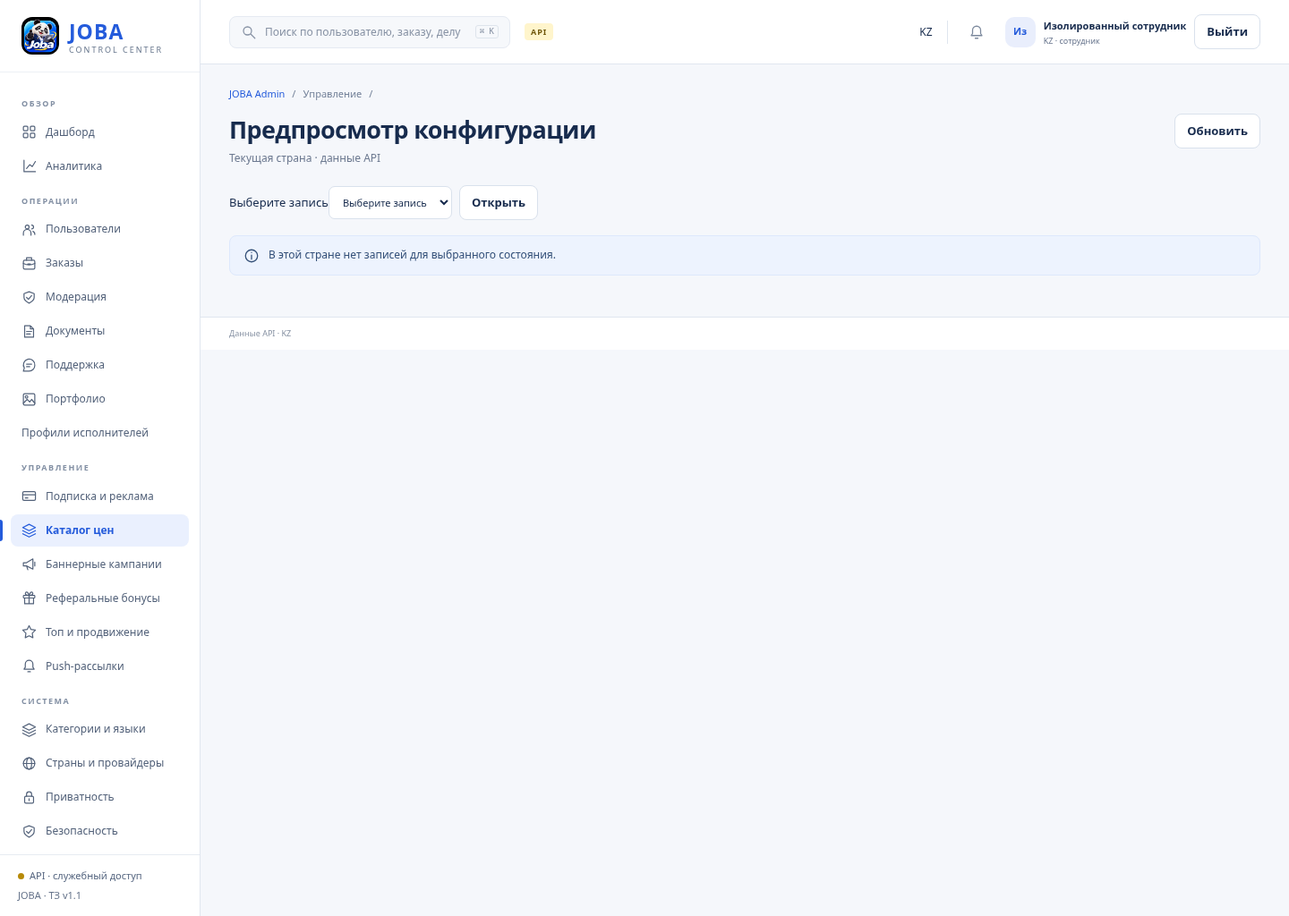
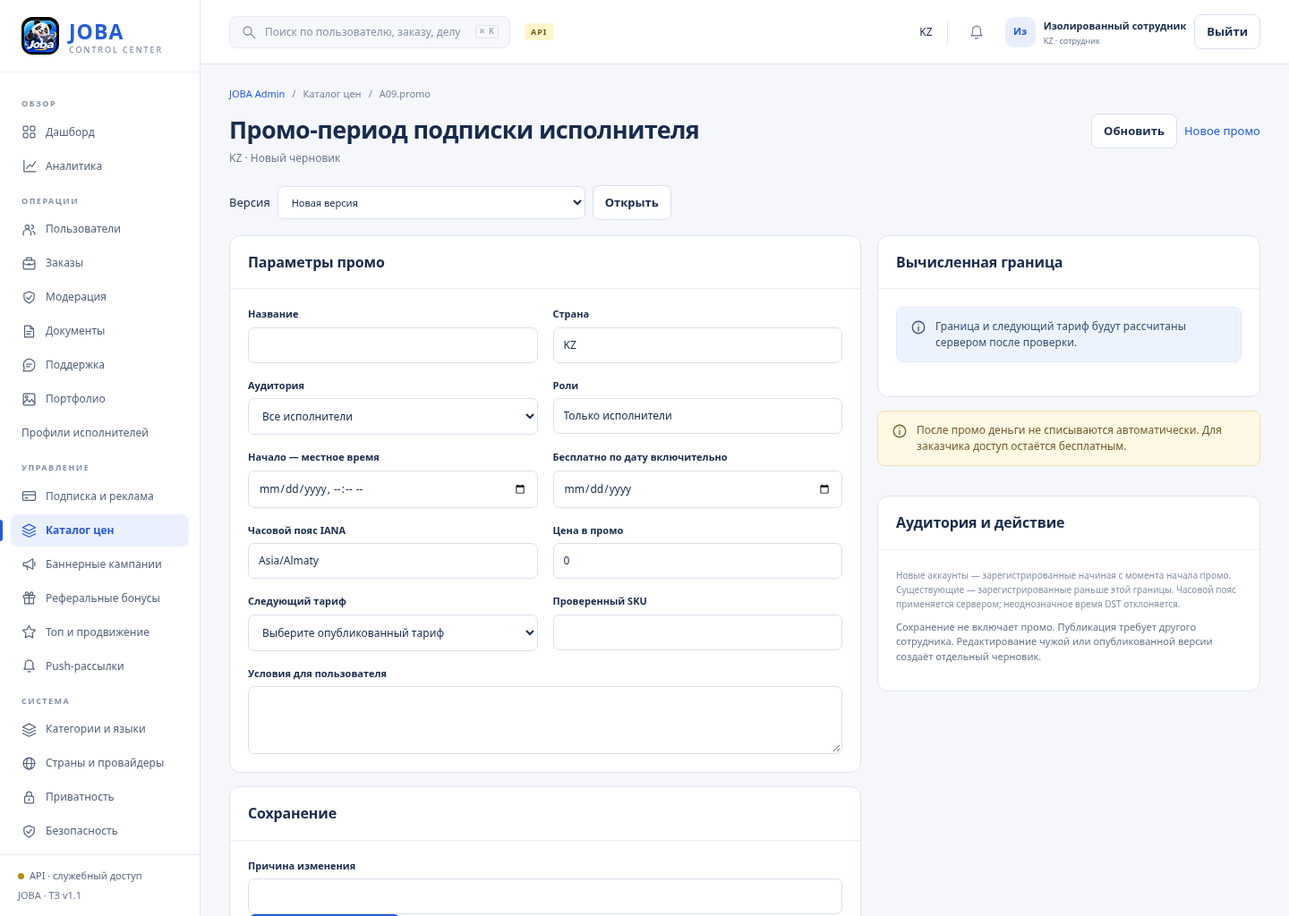
Implement structured executor promotion editor and correct admin subscription scope

diff --git a/apps/admin/monetization-workspace.js b/apps/admin/monetization-workspace.js
@@ -2,18 +2,19 @@ export async function monetizationWorkspace({key,api,esc,card,note,metric,badge,
  const [versions,summary]=await Promise.all([api('/admin/monetization-configs'),api('/admin/monetization-summary')]);
  const current=summary.current;
  const selected=current?.payload||{subscription_enabled:true,banner_ads_enabled:false,rewarded_access_enabled:false};
- const price=summary.prices.find(p=>p.payload.period==='month')||summary.prices[0];
+ const subscriptions=summary.prices.filter(p=>p.payload.product_type==='subscription');
+ const price=subscriptions.find(p=>p.payload.period==='month')||subscriptions[0];
  const switchControl=(name,label,value)=>`<button type="button" class="switch ${value?'on':''}" role="switch" aria-label="${label}" aria-checked="${Boolean(value)}" data-flag="${name}"></button><input type="hidden" name="${name}" value="${Boolean(value)}">`;
  const providerSelect=(name,label,options)=>`<label for="${name}">${label}</label><select id="${name}" name="${name}"><option value="">Не подключён</option>${options.map(provider=>`<option value="${esc(provider)}">${esc(provider)}</option>`).join('')}</select>`;
- const body=()=>`${note('<b>Подписка сохраняется как базовый способ доступа.</b> Баннеры и рекламные награды управляются независимо. Изменения не удаляют уже выданные права.')}<form id="monetization-draft" class="grid split"><div class="stack">${card('Базовая подписка',`<div class="row"><div><h3>JOBA Доступ</h3><p class="tiny muted">Один доступ для обеих ролей</p></div>${badge('Постоянная опция','blue')}</div><div class="grid cols2 mt"><div class="notice-slim">Действующая цена<br><b>${price?esc(new Intl.NumberFormat('ru',{style:'currency',currency:price.payload.currency}).format(price.payload.amount_minor/100)):'Цена ещё не опубликована'}</b></div><div class="notice-slim">Продукт провайдера<br><b>${esc(price?.payload.product_id||'Не подключён')}</b></div></div><a href="#pricing" class="tiny">Каталог цен →</a>`)}${card('Баннерная реклама',`<div class="row"><div><h3>Показывать inline-баннеры</h3><p class="tiny muted">Баннер не даёт право доступа</p></div>${switchControl('banner_ads_enabled','Показывать inline-баннеры',selected.banner_ads_enabled)}</div><div class="stack mt">${providerSelect('banner_provider','Баннерная сеть',summary.providers.banner)}${namedField('Размещения через запятую','banner_placements')}<div class="notice-slim">Чаты, документы, поддержка и оформление оплаты исключены.</div></div>`)}${card('Rewarded-доступ',`<div class="row"><div><h3>Разрешить новые рекламные сессии</h3><p class="tiny muted">Отдельная настройка временного доступа</p></div>${switchControl('rewarded_access_enabled','Разрешить новые рекламные сессии',selected.rewarded_access_enabled)}</div><div class="stack mt">${providerSelect('provider','Сеть рекламных наград',summary.providers.rewarded)}${namedField('Подтверждение политики сети','policy_evidence')}<label for="reward-kind">Тип награды</label><select id="reward-kind" name="reward_kind"><option value="duration">Временный доступ</option><option value="action_credits">Кредиты действий</option></select>${namedField('Срок награды или кредитов в минутах','duration_minutes','number')}${namedField('Количество кредитов','credits','number')}<label for="reward-capability">Действие</label><select id="reward-capability" name="capability"><option value="search_full">Полный поиск</option><option value="publish_order">Публикация заказа</option><option value="send_offer">Отправка отклика</option><option value="select_offer">Выбор исполнителя</option></select>${note('Включение требует подключённой сети и подтверждённой политики. До проверки публикация закрыта.','warn')}</div>`)}</div><div class="stack">${card('Область действия',`<p>Страна: <b>${esc(summary.country)}</b></p><p>Обе пользовательские роли</p><p>Активная версия: <b>${current?'v'+current.version:'Нет опубликованной версии'}</b></p><p>Кэш конфигурации: ${summary.config_ttl_seconds} секунд</p>`)}${card('Влияние изменения',`<div class="grid cols2">${metric('Активных аккаунтов',summary.users,'','В текущей стране')}${metric('Оплаченных прав',summary.subscription_grants,'','Сохраняются')}${metric('Ожидающих наград',summary.pending_rewards,'','По исходному snapshot')}</div>`)}${card('Новый черновик',`<div class="stack">${namedField('Название','title')}${namedField('Причина','reason')}<button type="submit" class="primary">Сохранить черновик</button><div id="monetization-error" role="alert"></div></div>`)}${card('Версии',versions.items.length?versions.items.map(v=>`<div class="event"><b>${esc(v.title)} · v${v.version}</b><p>${esc(v.status)}</p><button type="button" data-version="${v.id}">Открыть</button></div>`).join(''):note('Версий ещё нет.'))}</div></form>`;
+ const body=()=>`${note('<b>Подписка доступна только исполнителям. Заказчики пользуются сервисом бесплатно.</b> Баннеры и рекламные награды управляются независимо. Изменения не удаляют уже выданные права.')}<form id="monetization-draft" class="grid split"><div class="stack">${card('Базовая подписка',`<div class="row"><div><h3>JOBA Доступ</h3><p class="tiny muted">Доступ для исполнителя</p></div>${badge('Постоянная опция','blue')}</div><div class="grid cols2 mt"><div class="notice-slim">Действующая цена<br><b>${price?esc(new Intl.NumberFormat('ru',{style:'currency',currency:price.payload.currency}).format(price.payload.amount_minor/100)):'Цена ещё не опубликована'}</b></div><div class="notice-slim">Продукт провайдера<br><b>${esc(price?.payload.product_id||'Не подключён')}</b></div></div><a href="#pricing" class="tiny">Каталог цен →</a>`)}${card('Баннерная реклама',`<div class="row"><div><h3>Показывать inline-баннеры</h3><p class="tiny muted">Баннер не даёт право доступа</p></div>${switchControl('banner_ads_enabled','Показывать inline-баннеры',selected.banner_ads_enabled)}</div><div class="stack mt">${providerSelect('banner_provider','Баннерная сеть',summary.providers.banner)}${namedField('Размещения через запятую','banner_placements')}<div class="notice-slim">Чаты, документы, поддержка и оформление оплаты исключены.</div></div>`)}${card('Rewarded-доступ',`<div class="row"><div><h3>Разрешить новые рекламные сессии</h3><p class="tiny muted">Отдельная настройка временного доступа</p></div>${switchControl('rewarded_access_enabled','Разрешить новые рекламные сессии',selected.rewarded_access_enabled)}</div><div class="stack mt">${providerSelect('provider','Сеть рекламных наград',summary.providers.rewarded)}${namedField('Подтверждение политики сети','policy_evidence')}<label for="reward-kind">Тип награды</label><select id="reward-kind" name="reward_kind"><option value="duration">Временный доступ</option><option value="action_credits">Кредиты действий</option></select>${namedField('Срок награды или кредитов в минутах','duration_minutes','number')}${namedField('Количество кредитов','credits','number')}<label for="reward-capability">Действие</label><select id="reward-capability" name="capabilities" multiple size="3" required><option value="search_full">Полный поиск</option><option value="send_offer">Отправка отклика</option><option value="publish_profile">Публикация услуг</option></select>${note('Включение требует подключённой сети и подтверждённой политики. До проверки публикация закрыта.','warn')}</div>`)}</div><div class="stack">${card('Область действия',`<p>Страна: <b>${esc(summary.country)}</b></p><p>Подписка и награды доступа — для исполнителей. Баннерные размещения управляются отдельно.</p><p>Активная версия: <b>${current?'v'+current.version:'Нет опубликованной версии'}</b></p><p>Кэш конфигурации: ${summary.config_ttl_seconds} секунд</p>`)}${card('Влияние изменения',`<div class="grid cols2">${metric('Активных аккаунтов',summary.users,'','В текущей стране')}${metric('Оплаченных прав',summary.subscription_grants,'','Сохраняются')}${metric('Ожидающих наград',summary.pending_rewards,'','По исходному snapshot')}</div>`)}${card('Новый черновик',`<div class="stack">${namedField('Название','title')}${namedField('Причина','reason')}<button type="submit" class="primary">Сохранить черновик</button><div id="monetization-error" role="alert"></div></div>`)}${card('Версии',versions.items.length?versions.items.map(v=>`<div class="event"><b>${esc(v.title)} · v${v.version}</b><p>${esc(v.status)}</p><button type="button" data-version="${v.id}">Открыть</button></div>`).join(''):note('Версий ещё нет.'))}</div></form>`;
  return {key,id:'A16',title:'Подписка и реклама',subtitle:'Конфигурация текущей страны',section:'Управление',actions:'<button id="refresh-data">Обновить</button>',body,bind(){
   const form=document.getElementById('monetization-draft');
   form.querySelectorAll('[data-flag]').forEach(button=>button.onclick=()=>{const enabled=button.getAttribute('aria-checked')!=='true';button.setAttribute('aria-checked',String(enabled));button.classList.toggle('on',enabled);form.elements.namedItem(button.dataset.flag).value=String(enabled);});
-  form.elements.namedItem('banner_provider').value=selected.banner_provider||'';form.elements.namedItem('provider').value=selected.provider||'';form.elements.namedItem('banner_placements').value=(selected.banner_placements||[]).join(', ');form.elements.namedItem('policy_evidence').value=selected.policy_evidence||'';form.elements.namedItem('reward_kind').value=selected.reward_policy?.kind||'duration';form.elements.namedItem('capability').value=selected.reward_policy?.capabilities?.[0]||'search_full';
-  const rewardKind=form.elements.namedItem('reward_kind'),capability=form.elements.namedItem('capability');const constrainCredits=()=>{const search=capability.querySelector('[value="search_full"]');search.disabled=rewardKind.value==='action_credits';if(search.disabled&&capability.value==='search_full')capability.value='publish_order';};rewardKind.onchange=constrainCredits;constrainCredits();
+  form.elements.namedItem('banner_provider').value=selected.banner_provider||'';form.elements.namedItem('provider').value=selected.provider||'';form.elements.namedItem('banner_placements').value=(selected.banner_placements||[]).join(', ');form.elements.namedItem('policy_evidence').value=selected.policy_evidence||'';form.elements.namedItem('reward_kind').value=selected.reward_policy?.kind||'duration';for(const option of form.elements.namedItem('capabilities').options)option.selected=(selected.reward_policy?.capabilities||['search_full']).includes(option.value);
+  const rewardKind=form.elements.namedItem('reward_kind'),capability=form.elements.namedItem('capabilities');const constrainCredits=()=>{const search=capability.querySelector('[value="search_full"]');search.disabled=rewardKind.value==='action_credits';if(search.disabled)search.selected=false;if(![...capability.selectedOptions].length)capability.value=rewardKind.value==='action_credits'?'send_offer':'search_full';form.elements.namedItem('credits').disabled=rewardKind.value!=='action_credits';};rewardKind.onchange=constrainCredits;constrainCredits();
   form.elements.namedItem('duration_minutes').value=String((selected.reward_policy?.duration_seconds||3600)/60);form.elements.namedItem('credits').value=String(selected.reward_policy?.credits||1);
   form.onsubmit=async event=>{event.preventDefault();const values=Object.fromEntries(new FormData(form));form.querySelectorAll('button').forEach(b=>b.disabled=true);try{
-    const payload={subscription_enabled:true,banner_ads_enabled:values.banner_ads_enabled==='true',rewarded_access_enabled:values.rewarded_access_enabled==='true',banner_provider:values.banner_provider,banner_placements:values.banner_placements.split(',').map(x=>x.trim()).filter(Boolean),provider:values.provider,policy_evidence:values.policy_evidence,reward_policy:{kind:values.reward_kind,capabilities:[values.capability],...(values.reward_kind==='duration'?{duration_seconds:Number(values.duration_minutes)*60}:{credits:Number(values.credits),duration_seconds:Number(values.duration_minutes)*60})}};
+    const payload={subscription_enabled:true,banner_ads_enabled:values.banner_ads_enabled==='true',rewarded_access_enabled:values.rewarded_access_enabled==='true',banner_provider:values.banner_provider,banner_placements:values.banner_placements.split(',').map(x=>x.trim()).filter(Boolean),provider:values.provider,policy_evidence:values.policy_evidence,reward_policy:{kind:values.reward_kind,capabilities:new FormData(form).getAll('capabilities'),...(values.reward_kind==='duration'?{duration_seconds:Number(values.duration_minutes)*60}:{credits:Number(values.credits),duration_seconds:Number(values.duration_minutes)*60})}};
     await api('/admin/monetization-configs','POST',{title:values.title,reason:values.reason,payload});await onRefresh();
   }catch(error){document.getElementById('monetization-error').textContent=error.message;}finally{form.querySelectorAll('button').forEach(b=>b.disabled=false);}};
   form.querySelectorAll('[data-version]').forEach(button=>button.onclick=()=>{

diff --git a/apps/admin/promotion-workspace.js b/apps/admin/promotion-workspace.js
@@ -1,0 +1,42 @@
+const zones={KZ:'Asia/Almaty',RS:'Europe/Belgrade',RU:'Europe/Moscow',BY:'Europe/Minsk'};
+const audiences={all:'Все исполнители',new:'Новые аккаунты исполнителей',existing:'Существующие аккаунты исполнителей'};
+function localInput(value,zone){if(!value)return '';try{return new Intl.DateTimeFormat('sv-SE',{timeZone:zone,year:'numeric',month:'2-digit',day:'2-digit',hour:'2-digit',minute:'2-digit',hourCycle:'h23'}).format(new Date(value)).replace(' ','T');}catch{return '';}}
+export async function promotionWorkspace({key,api,esc,card,note,tablecard,country,actorId,onRefresh}){
+ const params=new URLSearchParams(location.hash.split('?')[1]||'');
+ const [data,prices]=await Promise.all([api('/admin/promotions?'+new URLSearchParams({limit:'20',...(params.get('cursor')?{cursor:params.get('cursor')}:{})})),api('/admin/price-versions?status=effective&limit=100')]);
+ const record=params.get('id')?(data.items.find(r=>r.id===params.get('id'))||await api('/admin/promotions/'+encodeURIComponent(params.get('id')))):undefined,p=record?.payload||{};
+ const zone=p.time_zone||zones[country]||'UTC';
+ const available=prices.items.filter(r=>r.status==='effective'&&r.payload.product_type==='subscription');
+ const money=r=>new Intl.NumberFormat('ru',{style:'currency',currency:r.payload.currency}).format(r.payload.amount_minor/100);
+ const input=(label,name,type,value,attrs='')=>`<div class="formfield"><label for="promo-${name}">${label}</label><input id="promo-${name}" name="${name}" type="${type}" value="${esc(value)}" ${attrs}></div>`;
+ const state=record?`Версия ${record.version} · ${esc(record.status)}`:'Новый черновик';
+ const selection=`<form id="promo-select" class="filters"><label for="promo-version">Версия</label><select id="promo-version" name="id"><option value="">Новая версия</option>${data.items.map(r=>`<option value="${esc(r.id)}" ${r.id===record?.id?'selected':''}>${esc(r.title)} · ${esc(r.status)} · v${r.version}</option>`).join('')}</select><button>Открыть</button></form>`;
+ const preview=record?.preview;
+ const boundaryMarkup=preview=>preview?`<div class="info-row"><span>Окончание, UTC</span><b>${esc(preview.promo_end_exclusive)}</b></div><div class="info-row"><span>Следующая цена</span><b>${preview.next_price?esc(new Intl.NumberFormat('ru',{style:'currency',currency:preview.next_price.currency}).format(preview.next_price.amount_minor/100)):'—'}</b></div>`:note('Граница и следующий тариф будут рассчитаны сервером после проверки.');
+ const command=record?`<form id="promo-command" class="stack"><label for="promo-command-reason">Основание действия</label><textarea id="promo-command-reason" name="reason" minlength="5" maxlength="1000" required></textarea><div class="actions"><button value="validate">Проверить</button><button value="preview">Предпросмотр промо</button>${record.status==='draft'?'<button class="primary" value="publish">Опубликовать другим сотрудником</button>':record.status==='effective'?'<button value="stop">Остановить промо</button><button value="rollback">Черновик отката</button>':'<button value="rollback">Черновик отката</button>'}</div><div role="alert"></div><div role="status"></div></form>`:'';
+ return {key,id:key==='promo'?'A09.promo':'A09.preview',title:key==='promo'?'Промо-период подписки исполнителя':'Предпросмотр промо',subtitle:`${country} · ${state}`,section:'Каталог цен',actions:'<button id="refresh-data">Обновить</button><a class="btn" href="#promo">Новое промо</a>',
+  body:()=>selection+(params.has('id')&&!record?note('Версия не найдена в текущей стране.','warn'):'')+`<div class="grid split"><form id="promo-editor" class="stack">${card('Параметры промо',`<div class="formgrid">${input('Название','title','text',record?.title||'','required minlength="3" maxlength="120"')}${input('Страна','country','text',country,'readonly')}
+   <div class="formfield"><label for="promo-audience">Аудитория</label><select id="promo-audience" name="audience">${Object.entries(audiences).map(([id,label])=>`<option value="${id}" ${id===(p.audience||'all')?'selected':''}>${label}</option>`).join('')}</select></div>
+   ${input('Роли','role','text','Только исполнители','readonly')}${input('Начало — местное время','start_local','datetime-local',localInput(p.valid_from,zone),'required')}${input('Бесплатно по дату включительно','end_date','date',p.end_date||'','required')}${input('Часовой пояс IANA','time_zone','text',zone,'required')}${input('Цена в промо','zero','text','0','readonly')}
+   <div class="formfield"><label for="promo-next-price">Следующий тариф</label><select id="promo-next-price" name="next_price_id" required><option value="">Выберите опубликованный тариф</option>${available.map(r=>`<option value="${esc(r.id)}" ${r.id===p.next_price_id?'selected':''}>${esc(r.title)} · ${esc(money(r))} · ${esc(r.payload.period||'')}</option>`).join('')}</select></div>
+   ${input('Проверенный SKU','sku','text','','readonly')}
+   <div class="formfield wide"><label for="promo-user-terms">Условия для пользователя</label><textarea id="promo-user-terms" name="user_terms" required minlength="10" maxlength="4000" rows="3">${esc(p.user_terms||'')}</textarea></div></div>`)}
+   ${card('Сохранение',`${input('Причина изменения','reason','text','','required minlength="5" maxlength="1000"')}<button class="primary">Сохранить черновик</button><div role="alert"></div>`)}
+  </form><div class="stack">${card('Вычисленная граница','<div id="promo-boundary">'+boundaryMarkup(preview)+'</div>')}${note('После промо деньги не списываются автоматически. Для заказчика доступ остаётся бесплатным.','warn')}${card('Аудитория и действие',`<p class="helptext">Новые аккаунты — зарегистрированные начиная с момента начала промо. Существующие — зарегистрированные раньше этой границы. Часовой пояс применяется сервером; неоднозначное время DST отклоняется.</p><p class="tiny muted">Сохранение не включает промо. Публикация требует другого сотрудника. Редактирование чужой или опубликованной версии создаёт отдельный черновик.</p>`)}${record?card('Проверка влияния',command):''}</div></div>`+tablecard('Версии промо',['Название','Состояние','Версия',''],data.items.map(r=>[esc(r.title),esc(r.status),r.version,`<a href="#promo?id=${esc(r.id)}">Открыть →</a>`]))+(data.meta?.next_cursor?`<a class="btn" href="#promo?cursor=${encodeURIComponent(data.meta.next_cursor)}">Следующие версии</a>`:''),
+  bind(){
+   document.getElementById('promo-select').onsubmit=e=>{e.preventDefault();const id=new FormData(e.currentTarget).get('id');location.hash=key+(id?'?id='+encodeURIComponent(id):'');};
+   const form=document.getElementById('promo-editor'),price=form.elements.next_price_id;
+   const showSku=()=>{const r=available.find(r=>r.id===price.value);form.elements.sku.value=r?.payload.product_id||'';};price.onchange=showSku;showSku();
+   form.onsubmit=async e=>{e.preventDefault();const values=Object.fromEntries(new FormData(form)),editable=record?.status==='draft'&&record.owner===actorId;const payload={audience:values.audience,role:'executor',start_local:values.start_local,end_date:values.end_date,time_zone:values.time_zone,next_price_id:values.next_price_id,user_terms:values.user_terms};
+    const controls=[...form.querySelectorAll('button,input,textarea,select')];controls.forEach(x=>x.disabled=true);form.querySelector('[role=alert]').textContent='';
+    try{const saved=await api('/admin/promotions'+(editable?'/'+record.id:''),editable?'PATCH':'POST',{title:values.title,reason:values.reason,payload,...(editable?{expected_version:record.version}:{})});if(params.get('id')===saved.id)await onRefresh();else location.hash='promo?id='+encodeURIComponent(saved.id);}
+    catch(error){form.querySelector('[role=alert]').textContent=error.message;controls.forEach(x=>x.disabled=false);}
+   };
+   const commands=document.getElementById('promo-command');form.oninput=event=>{if(commands&&event.target.name!=='reason'){commands.querySelectorAll('button').forEach(x=>x.disabled=true);commands.querySelector('[role=status]').textContent='Сохраните изменения перед проверкой и публикацией.';}};if(commands)commands.onsubmit=async e=>{e.preventDefault();const action=e.submitter.value,reason=new FormData(commands).get('reason');commands.querySelectorAll('button').forEach(x=>x.disabled=true);commands.querySelector('[role=alert]').textContent='';
+    try{const result=await api('/admin/promotions/'+record.id+'/'+action,'POST',{expected_version:record.version,reason});if(['validate','preview'].includes(action)){commands.querySelector('[role=status]').textContent='Проверка сохранённой версии завершена.';document.getElementById('promo-boundary').innerHTML=boundaryMarkup(result);}else if(action==='rollback')location.hash='promo?id='+encodeURIComponent(result.id);else await onRefresh();}
+    catch(error){commands.querySelector('[role=alert]').textContent=error.message;}
+    finally{commands.querySelectorAll('button').forEach(x=>x.disabled=false);}
+   };
+  }
+ };
+}

diff --git a/services/api/src/marketplace.ts b/services/api/src/marketplace.ts
@@ -26,7 +26,7 @@ import { PopplerPdfSanitizer } from './pdf-sanitizer';
 import { PrivateFiles, ClamAvScanner } from './private-files';
 import sharp from 'sharp';
 import { Moderation, validateRules, TEXT_SURFACES, matchesRule } from './moderation';
-import { Configuration } from './configuration';
+import { Configuration,normalizePromotionPayload } from './configuration';
 import { Growth } from './growth';
 import { Branding } from './branding';
 import { DEFAULT_SETTINGS,validateSettings,readSettings } from './settings';
@@ -357,7 +357,7 @@ export class Marketplace {
       const cooldownUntil=last?new Date(last+(config?.payload.cooldown_seconds??300)*1000).toISOString():null;
       return {banner_ads_enabled:false,rewarded_access_enabled:false,...config?.payload,reward_provider_ready:this.providers.rewards.has(config?.payload.provider),reward_usage:{used_today:usedToday,daily_cap:dailyCap,remaining_today:Math.max(0,dailyCap-usedToday),cooldown_until:cooldownUntil},version:config?.version??1,effective_at:config?.published_at??null,expires_at:new Date(Date.now()+settings.config_ttl_seconds*1000).toISOString(),server_time:new Date().toISOString(),checkout_enabled:false,subscription_enabled:a.user.active_role==='executor'&&config?.payload.subscription_enabled!==false,subscription_scope:'executor',country_gate:'unverified',offers:a.user.active_role==='executor'&&config?.payload.subscription_enabled!==false?(await this.commerce.offers(a.country)).items:[]};
     }
-    if(path==='/me/entitlements'&&method==='GET')return {items:(await this.store.all('grant',a.country)).filter(x=>x.owner===a.id)};
+    if(path==='/me/entitlements'&&method==='GET'){await this.promotionGrant(a);return {items:(await this.store.all('grant',a.country)).filter(x=>x.owner===a.id)};}
     if(path==='/me/verification'&&method==='GET') {
       const policy=(await this.store.all('verification_policy',a.country)).filter(x=>x.status==='effective').sort((x,y)=>String(y.published_at??y.created_at).localeCompare(String(x.published_at??x.created_at))||y.id.localeCompare(x.id))[0];
       const consent=policy?(await this.store.all('consent',a.country)).filter(x=>x.owner===a.id&&x.document_id===policy!.payload.document_id).sort((x,y)=>(y.sequence??0)-(x.sequence??0)||y.created_at.localeCompare(x.created_at))[0]:null;
@@ -1273,8 +1273,16 @@ export class Marketplace {
       const configKinds=['monetization-configs','price-versions','categories','push-campaigns','referral-campaigns','moderation-dictionaries','ranking-configs','promotions','placement-policies','verification-policies','retention-policies','country-controls'];
       if(configKinds.includes(section)&&method==='POST'&&path.split('/').length===3) {
         if(section==='moderation-dictionaries'){try{validateRules(b.payload?.rules);}catch(e:any){fail(400,'VALIDATION_ERROR',e.message);}}
-        const r=this.record(kinds[section],a,{title:text(b,'title',3,120),status:'draft',payload:section==='push-campaigns'?normalizePushPayload(b.payload??{}):b.payload??{}});
+        const r=this.record(kinds[section],a,{title:text(b,'title',3,120),status:'draft',payload:section==='push-campaigns'?normalizePushPayload(b.payload??{}):section==='promotions'?normalizePromotionPayload(b.payload??{}):b.payload??{}});
         await this.store.put(r);await this.audit(a,section+'.draft',r.id,text(b,'reason',5,1000));return r;
+      }
+      const editPromotion=path.match(/^\/admin\/promotions\/([^/]+)$/);
+      if(editPromotion&&method==='GET')return this.object(editPromotion[1],a,'promotion');
+      if(editPromotion&&method==='PATCH'){
+        const r=await this.object(editPromotion[1],a,'promotion');this.version(r,b);
+        if(r.status!=='draft'||r.owner!==a.id)fail(409,'STATE_CONFLICT','Создайте новую версию этого промо');
+        const result=await this.store.put({...r,title:text(b,'title',3,120),payload:normalizePromotionPayload(b.payload??{}),preview:undefined,version:r.version+1});
+        await this.audit(a,'promotions.edited',r.id,text(b,'reason',5,1000));return result;
       }
       const dictionaryDryRun=path.match(/^\/admin\/moderation-dictionaries\/([^/]+)\/dry-run$/);
       if(dictionaryDryRun&&method==='POST'){
@@ -1542,11 +1550,17 @@ export class Marketplace {
     return readSettings(this.store,country);
   }
   private async promotionGrant(a:Actor) {
+    if(a.user.status!=='active'||a.user.active_role!=='executor'||!a.user.roles?.includes('executor'))return;
     const now=new Date().toISOString();
-    const promotion=(await this.store.all('promotion',a.country)).find(p=>p.status==='effective'&&p.preview?.promo_end_exclusive>now&&(!p.payload.valid_from||p.payload.valid_from<=now));
+    const promotion=(await this.store.all('promotion',a.country)).filter(p=>{
+      if(p.status!=='effective'||!(p.preview?.promo_end_exclusive>now)||p.payload.valid_from&&p.payload.valid_from>now)return false;
+      const cutoff=p.payload.valid_from??p.published_at??p.created_at;
+      return !p.payload.audience||p.payload.audience==='all'||(p.payload.audience==='new'?a.user.created_at>=cutoff:a.user.created_at<cutoff);
+    }).sort((x,y)=>String(y.published_at??y.created_at).localeCompare(String(x.published_at??x.created_at))||y.id.localeCompare(x.id))[0];
     if(!promotion)return;
     const existing=(await this.store.all('grant',a.country)).find(g=>g.owner===a.id&&g.source_id===promotion.id);if(existing)return;
-    await this.store.put(this.record('grant',a,{source:'subscription_promotion',source_id:promotion.id,valid_until:promotion.preview.promo_end_exclusive,capabilities:['search_full','send_offer','publish_profile'],terms_snapshot:promotion.preview}));
+    const grant=this.record('grant',a,{source:'subscription_promotion',source_id:promotion.id,valid_until:promotion.preview.promo_end_exclusive,capabilities:['search_full','send_offer','publish_profile'],terms_snapshot:promotion.preview});
+    await this.store.db.query('INSERT INTO records(id,kind,owner,country,version,data) VALUES($1,$2,$3,$4,$5,$6) ON CONFLICT DO NOTHING',[grant.id,grant.kind,grant.owner,grant.country,grant.version,JSON.stringify(grant)]);
   }
   private async processUpload(id:string):Promise<any>{
     const running=this.uploadTasks.get(id);if(running)return running;

diff --git a/apps/admin/runtime.js b/apps/admin/runtime.js
@@ -1,3 +1,4 @@
+import {promotionWorkspace} from './promotion-workspace.js';
 import {pushRoutes,pushWorkspace} from './push-workspace.js';
 import {scenarioRoutes,scenarioWorkspace} from './scenario-workspace.js';
 import {brandingBuildWorkspace} from './branding-build-workspace.js';
@@ -99,7 +100,7 @@ async function draw(reload=true) {
     if(reload&&session){
       const workspace=document.querySelector('.workspace');if(workspace){workspace.innerHTML=note('Загрузка данных…');workspace.setAttribute('aria-busy','true');}
       if(pushRoutes.has(key))routes[key]=await pushWorkspace({key,country:session.user.country,canManageTests:session.user.staff_permissions?.includes('administrator'),api:request,esc,card,tablecard,note,badge,namedField,onRefresh:()=>draw()});
-      if(scenarioRoutes.has(key))routes[key]=await scenarioWorkspace({key,api:request,esc,card,tablecard,note,namedField,onRefresh:()=>draw()});
+      if(scenarioRoutes.has(key)&&!['promo','promo-preview'].includes(key))routes[key]=await scenarioWorkspace({key,api:request,esc,card,tablecard,note,namedField,onRefresh:()=>draw()});
       if(['boosts','boost-grant'].includes(key))routes[key]=await boostWorkspace({key,api:request,esc,card,tablecard,note,badge,onRefresh:()=>draw()});
       if(key==='branding-build')routes[key]=await brandingBuildWorkspace({key,api:request,download:api.download,esc,card,tablecard,note,badge,onRefresh:()=>draw()});
       if(key==='branding')routes[key]=await brandingWorkspace({key,api:request,files:{upload:async file=>{if(g!==generation)throw Error('Экран изменился');const result=await api.upload(file);if(g!==generation)throw Error('Экран изменился');return result;},download:async path=>{if(g!==generation)throw Error('Экран изменился');const result=await api.download(path);if(g!==generation)throw Error('Экран изменился');return result;}},esc,card,note,badge,namedField,onRefresh:()=>draw()});
@@ -107,6 +108,8 @@ async function draw(reload=true) {
       if(['analytics','dashboard','security','jobs','scheduled','job-detail'].includes(key))routes[key]=await systemWorkspace({key,api:request,esc,card,tablecard,note,metric,badge,onRefresh:()=>draw()});
       if(key==='security')routes[key].actions+='<a class="btn" href="#security-full">Защищённый просмотр</a>';
       if(sections[key]&&!pushRoutes.has(key))cache[key]=await request('/admin/'+sections[key][0]+'?'+new URLSearchParams({...filters[key],...(cursors[key]?{cursor:cursors[key]}:{})}));
+      if(['promo','promo-preview'].includes(key))routes[key]=await promotionWorkspace({key,api:request,esc,card,note,tablecard,country:session.user.country,actorId:session.user.id,onRefresh:()=>draw()});
+      if(['pricing','prices'].includes(key))routes[key].actions='<a class="btn primary" href="#promo">Промо-период исполнителя</a>';
       if(key==='monetization')routes[key]=await monetizationWorkspace({key,api:request,esc,card,note,metric,badge,namedField,onRefresh:()=>draw()});
       if(['settings','legal'].includes(key)||key.startsWith('recovery-live/'))routes[key]=await operationsWorkspace({key,api:request,esc,card,note,namedField,onRefresh:()=>draw()});
       if(userRoutes.has(key)||key.startsWith('record-live/users/'))routes[key]=await userWorkspace({key,api:request,esc,card,tablecard,note,badge,namedField,sections,onRefresh:()=>draw()});

diff --git a/services/api/src/configuration.ts b/services/api/src/configuration.ts
@@ -9,6 +9,11 @@ function fail(code:string,message:string,status=422):never{throw new HttpExcepti
 export function promoEnd(date:string,timeZone:string) {
   return Temporal.PlainDate.from(date).add({days:1}).toZonedDateTime(timeZone).toInstant().toString();
 }
+export function normalizePromotionPayload(value:any) {
+  const p={...value};
+  if(p.start_local!==undefined){try{p.valid_from=new Date(Number(Temporal.PlainDateTime.from(p.start_local).toZonedDateTime(p.time_zone,{disambiguation:'reject'}).toInstant().epochMilliseconds)).toISOString();}catch{fail('VALIDATION_ERROR','Проверьте начало промо и IANA часовой пояс');}delete p.start_local;}
+  return p;
+}
 export class Configuration {
   constructor(private store:Store,private providers:Providers){}
   async validate(r:RecordData) {
@@ -45,9 +50,13 @@ export class Configuration {
     if(r.kind==='promotion') {
       if(typeof p.end_date!=='string'||typeof p.time_zone!=='string')fail('VALIDATION_ERROR','Дата и часовой пояс обязательны');
       let end:string;try{end=promoEnd(p.end_date,p.time_zone);}catch{fail('VALIDATION_ERROR','Некорректная дата или IANA time zone');}
-      const next=await this.store.get(p.next_price_id);if(!next||next.kind!=='price_version'||next.country!==r.country||next.status!=='effective')fail('NEXT_PRICE_UNVERIFIED','Сначала опубликуйте следующий тариф');
+      const next=await this.store.get(p.next_price_id);if(!next||next.kind!=='price_version'||next.country!==r.country||next.status!=='effective'||next.payload.product_type==='boost')fail('NEXT_PRICE_UNVERIFIED','Сначала опубликуйте следующий тариф');
       if(Date.parse(end!)<=Date.now())fail('VALIDATION_ERROR','Дата промо уже прошла');
-      return {promo_end_exclusive:end!,next_price:{id:next.id,...next.payload},amount_minor:0};
+      if(p.valid_from!==undefined&&(!Number.isFinite(Date.parse(p.valid_from))||new Date(p.valid_from).toISOString()!==p.valid_from||Date.parse(p.valid_from)>=Date.parse(end!)))fail('VALIDATION_ERROR','Начало должно предшествовать окончанию промо');
+      if(p.audience!==undefined&&!['all','new','existing'].includes(p.audience))fail('VALIDATION_ERROR','Выберите аудиторию промо');
+      if(p.role!==undefined&&p.role!=='executor')fail('VALIDATION_ERROR','Промо подписки доступно только исполнителям');
+      if(p.user_terms!==undefined&&(typeof p.user_terms!=='string'||p.user_terms.trim().length<10||p.user_terms.length>4000))fail('VALIDATION_ERROR','Укажите условия для пользователя');
+      return {valid_from:p.valid_from??null,audience:p.audience??'all',role:'executor',user_terms:p.user_terms??null,promo_end_exclusive:end!,next_price:{id:next.id,...next.payload},amount_minor:0};
     }
     if(r.kind==='dictionary'){try{validateRules(p.rules);}catch(e:any){fail('VALIDATION_ERROR',e.message);}}
     if(r.kind==='category') {

diff --git a/docs/design/review/admin-promotion-update.md b/docs/design/review/admin-promotion-update.md
@@ -1,0 +1,19 @@
+# Промо подписки и монетизация в админке — 15.10.2026
+
+A09.promo получил отдельный редактор вместо универсального просмотра конфигурации. Название, начало по местному времени, дата окончания включительно, IANA-зона, аудитория, следующий опубликованный тариф и условия сохраняются в API. Страна берётся из служебной сессии, роль зафиксирована исполнителем, цена промо равна нулю, SKU вычисляется из выбранного тарифа. Цена продвижения не используется как следующий тариф подписки. На сервере отклоняется отсутствующее и неоднозначное время DST; начало должно предшествовать окончанию.
+
+Собственный черновик редактируется через PATCH с expected_version. Чужая/опубликованная версия копируется в отдельный собственный черновик, а не перезаписывается. Просмотр версии по ID не зависит от первой страницы списка. Предпросмотр рассчитывает границу и показывает её в форме. После изменения полей кнопки проверки сохранённой версии отключаются до сохранения. Другая служебная учётная запись подтверждает публикацию; автор не может подтвердить её сам.
+
+Новые аккаунты для аудитории промо — зарегистрированные не раньше его начала; существующие — зарегистрированные раньше. Действующая подходящая версия выдаёт исполнителю одно право до фиксированной границы, в том числе при открытии сведений о собственном доступе. На заказчика это правило не распространяется. Выдача использует уникальность источника/владельца в БД; повтор не продлевает срок. Автоматическая оплата следующего тарифа не создаётся.
+
+A16 больше не описывает подписку как доступ для обеих ролей и не показывает цену boost вместо подписки. Набор возможностей рекламной награды сохраняется полностью. Кредиты действий исключают чтение поиска; действия бесплатного заказчика не предлагаются как платная награда. Баннерный флаг остаётся отдельной настройкой.
+
+Внешние провайдеры не имитируются. Редактор banner creative по-прежнему не завершён: существующий banner-detail показывает конфигурацию, а не полный жизненный цикл креатива. Все кадры, включая обновлённые A09.promo, A09.preview и A16, остаются pending; наличие формы и браузерного снимка не подтверждает 1:1. Эта версия не опубликована на сервере автоматически.
+
+## Проверки
+
+Полный серверный прогон: 80 passed, 0 failed. Браузерный прогон админки с настоящим изолированным API проверил роли, сохранение нескольких возможностей награды, создание и редактирование промо без дубликата, серверную границу, отказ автору в публикации, независимое подтверждение и отдельный черновик отката. Получены 67 административных и 5 публичных снимков, ошибок отрисовки нет. В реестре обновлены три относящихся к этой итерации кадра; все сохраняют pending.
+
+Мобильный код этой административной итерацией не менялся: предыдущий проверенный прогон — 82 passed, 2 skipped и 115/115 отдельных снимков. Публикация на сервере и реальные внешние интеграции этой проверкой не подтверждаются.
+
+Новые кадры промо показывают полную исходно пустую форму вместо прежнего выбора записи/JSON. Диагностическая пиксельная разница этих двух кадров увеличилась; их визуальная доводка остаётся открытой. Нулевые данные и пустые поля не заменяются демонстрационным тарифом или датой. Откат опубликованного промо создаёт отдельный черновик и сохраняет действующую версию до новой независимой публикации.

diff --git a/docs/project-readiness.md b/docs/project-readiness.md
@@ -6,6 +6,8 @@
 
 ## Выполнено на текущем этапе
 
+- Админка монетизации отражает подписку только исполнителя и сохраняет несколько возможностей награды. Промо подписки получило отдельную форму: начало по IANA-зоне, дата включительно, аудитория, условия, опубликованный следующий тариф, версии, предпросмотр и независимое подтверждение. Собственный черновик редактируется с expected_version; заказчику промо подписки не выдаётся. [Проверки](design/review/admin-promotion-update.md).
+
 - Доработаны публичный профиль, повторная загрузка документов и четыре состояния продвижения. Исправлены допуск, соответствие цены/площадки, учёт занятой ёмкости и повторная проверка платежа без новой покупки. Подтверждённая оплата при недоступном месте сохраняется для разбирательства. [Сверка и ограничения](design/review/profile-verification-promotion-update.md).
 
 - Редактор проекта S38.edit приведён к структуре макета: сохранение черновика, категория, фотографии/обложка, описание, связь с выполненным заказом, подтверждение прав и нижняя отправка на модерацию. Переход к фото сохраняет поля; повтор после ошибок сохраняет версию и не создаёт второй черновик. [Сверка](design/review/portfolio-editor-update.md).
@@ -33,7 +35,7 @@
 ## Что ещё требуется до утверждения полной готовности
 
 1. **Визуальное совпадение 1:1 не достигнуто.** Все 187 кадров остаются `pending`. Среди дополнительных административных состояний есть выбор записи/просмотр существующей версии вместо полной формы исходного состояния; нулевое число сообщений о неподключённом маршруте не закрывает этот пробел.
-2. Структурированные формы промо, banner creative и остальных конфигураций должны соответствовать исходным макетам; универсальный JSON-редактор/просмотр не заменяет каждое поле формы. Текущий `banner-detail` показывает рекламную конфигурацию, а не полный редактор креатива.
+2. Редактор промо подписки подключён к API, но его визуальная приёмка не выполнена. Полные структурированные формы banner creative и остальных конфигураций ещё не завершены; универсальный JSON-редактор/просмотр не заменяет каждое поле формы. Текущий `banner-detail` показывает рекламную конфигурацию, а не полный редактор креатива.
 3. Массовые временные ограничения аккаунтов реализованы отдельно: явное `bulk_restrict` (обычный administrator его не подменяет), региональный snapshot с версиями аккаунта и дела, конечный срок до 30 дней, независимое подтверждение, частичные результаты, аудит, собственное уведомление и апелляция без раскрытия автора жалобы. Визуальная приёмка и эксплуатационная проверка остаются открыты.
 4. Локальный жизненный цикл push-кампаний реализован: реальные preview и отдельные тестовые задания, конечные разрешения тестовых аккаунтов, независимое планирование, scheduled/sending/completed/canceled, дедлайны, частота, тихие часы и повторные проверки согласий/сессии устройства. Остаются подключение провайдера, проверка его идемпотентности и доставки на реальных устройствах. `sent` означает принятие провайдером, а не прочтение. Визуальная приёмка редактора не выполнена.
 5. Полный жизненный цикл удаления остальных категорий данных — чатов, истории заказов, финансовых/аудиторских записей и их field-scoped holds — ещё не закрыт. Текущая файловая очистка и `limited_retention` не означают полный purge. Обязательные финансовые сроки должны задаваться утверждённой политикой страны.

diff --git a/docs/design/review/README.md b/docs/design/review/README.md
@@ -1,6 +1,6 @@
 # Промежуточная сверка native экранов
 
-Последняя итерация: [публичный профиль, повторная проверка и продвижение](profile-verification-promotion-update.md). Ранее: [редактор проекта портфолио](portfolio-editor-update.md). Ранее: [новые условия, реклама, удаление и фотографии](reward-privacy-photos-update.md). Ранее: [форма отклика, сроки и список предложений](offer-terms-update.md). Ранее: [заказ, выбор исполнителя, чат, список переписок и результат работы](order-chat-result-update.md). Также: [карточки доступа исполнителя и условия оплаты](executor-access-update.md).
+Последняя итерация: [поля промо и правила монетизации в админке](admin-promotion-update.md). Ранее: [публичный профиль, повторная проверка и продвижение](profile-verification-promotion-update.md). Ранее: [редактор проекта портфолио](portfolio-editor-update.md). Ранее: [новые условия, реклама, удаление и фотографии](reward-privacy-photos-update.md). Ранее: [форма отклика, сроки и список предложений](offer-terms-update.md). Ранее: [заказ, выбор исполнителя, чат, список переписок и результат работы](order-chat-result-update.md). Также: [карточки доступа исполнителя и условия оплаты](executor-access-update.md).
 
 ## Текущий результат — оставшиеся 28 состояний
 
